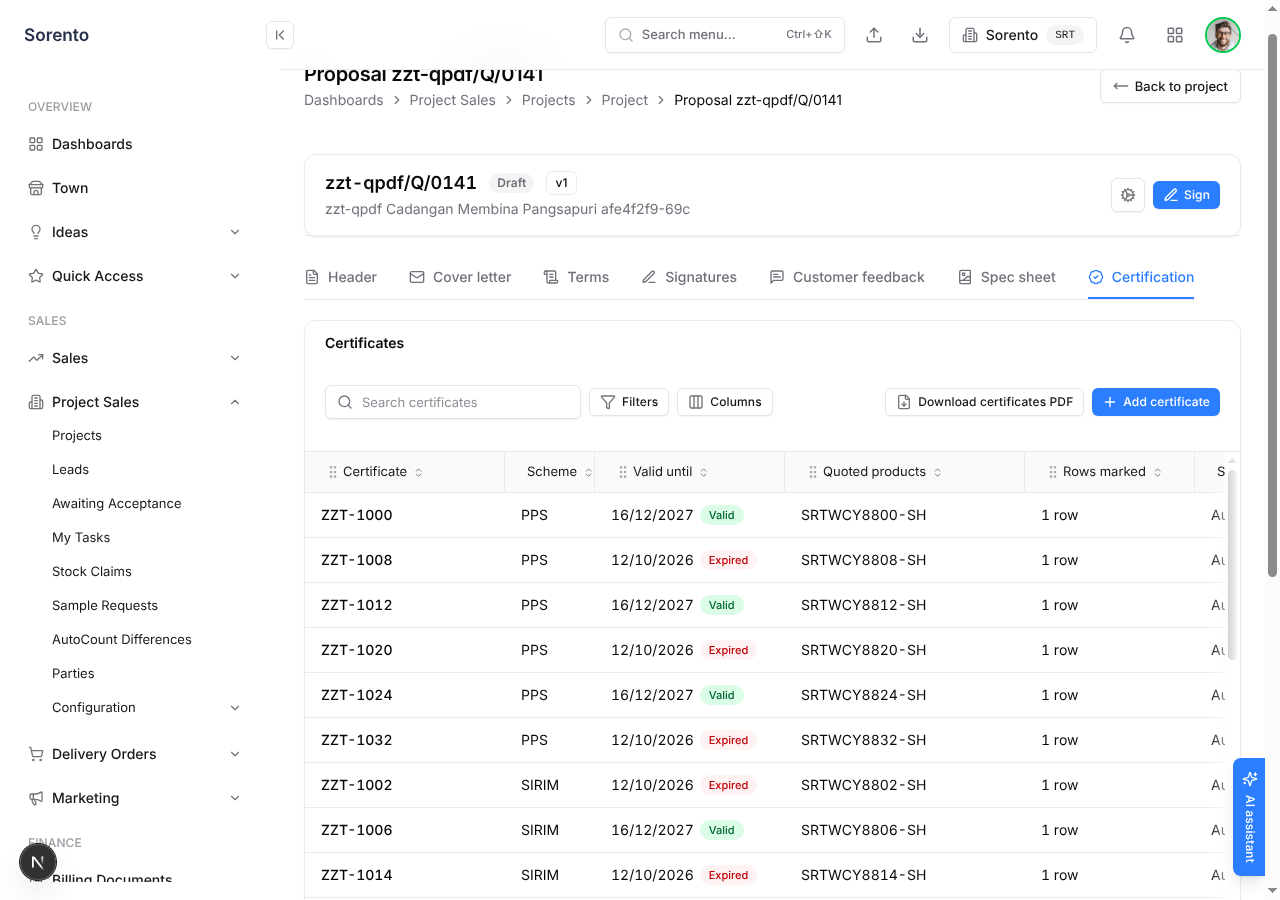
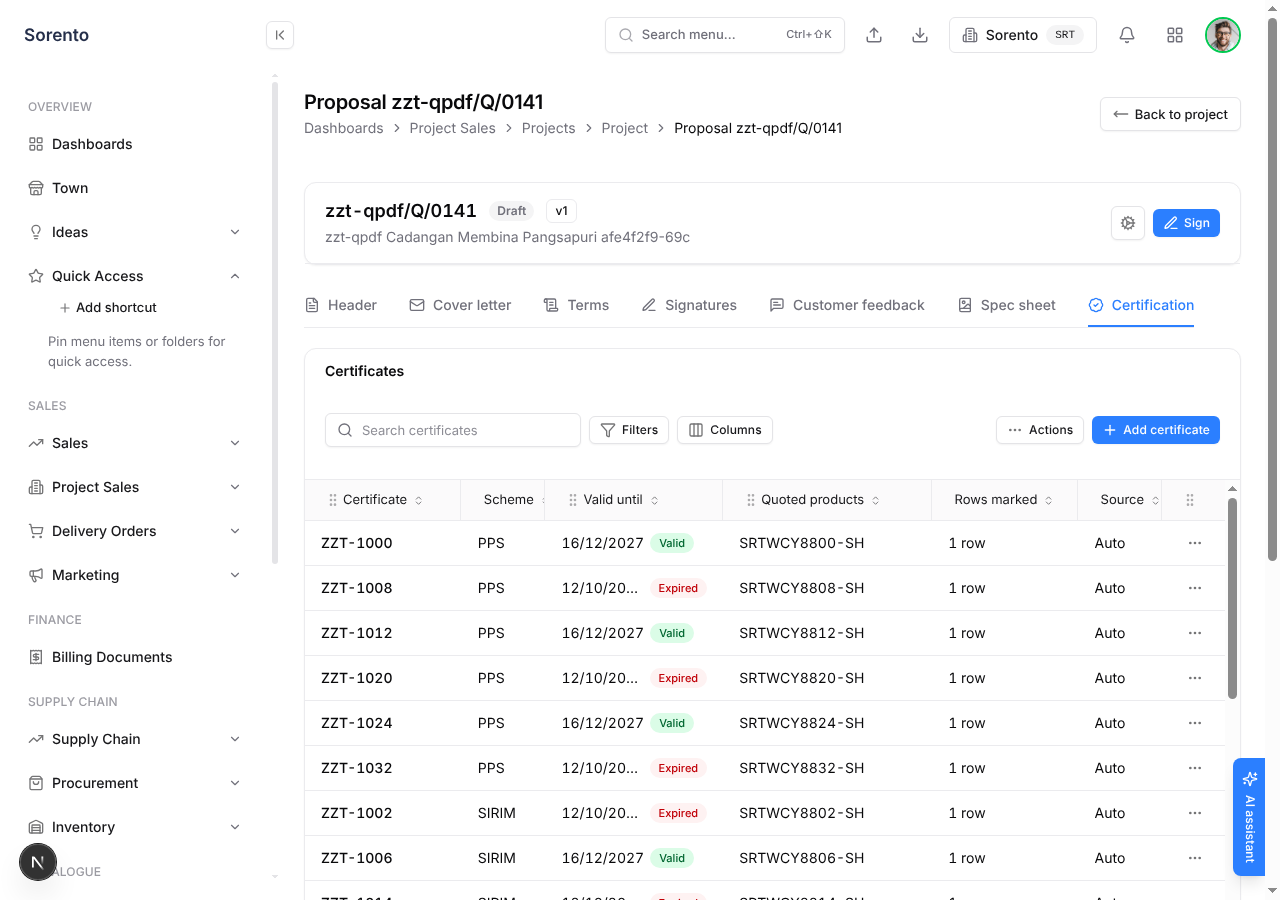
CERT-TAB-UX: Download certificates PDF in the toolbar Actions menu so Add fits at 375px; browser evidence [skip ci]
Claude-Session: https://claude.ai/code/session_0123Dx7NpBeimV6NWyxwuXwA

diff --git a/sorento_crm_frontend/app/(protected)/project-sales/[projectId]/quotation-documents/[documentId]/components/__tests__/QuotationCertificatesList.test.tsx b/sorento_crm_frontend/app/(protected)/project-sales/[projectId]/quotation-documents/[documentId]/components/__tests__/QuotationCertificatesList.test.tsx
@@ -7,7 +7,7 @@
  *              returning `{ data, isLoading, error, refetch }`; `data` = `{ can_edit, can_edit_defaults, items: Row[] }`.
  *   List       `PanelDataGrid`; scheme, number, a validity badge, and marked text that carries the count and the
  *              state in words ("2 rows, found").
- *   Toolbar    "Download certificates PDF"; "Add certificate" only when `can_edit`.
+ *   Toolbar    "Download certificates PDF" (Actions menu); "Add certificate" only when `can_add`.
  *   Empty      heading "No certificates" and the hint "None of the quoted products has a certificate on file."
  *   Remove     the row menu deferred action `quotation_certificate.remove` (entity type `quotation_certificate`,
  *              entity id = the document id, payload `{ certificate_id }`): no confirm dialog.
@@ -98,6 +98,14 @@ function ok(items: unknown[], canEdit = true) {
     error: null,
     refetch: vi.fn(),
   });
+}
+
+/** Download certificates PDF lives in the toolbar's Actions menu (CERT-TAB-UX, 375px). */
+async function findDownloadItem() {
+  const trigger = await screen.findByRole('button', { name: /^actions$/i });
+  trigger.focus();
+  fireEvent.keyDown(trigger, { key: 'ArrowDown', code: 'ArrowDown' });
+  return screen.findByRole('menuitem', { name: /download certificates pdf/i });
 }
 
 function renderList() {
@@ -197,8 +205,8 @@ describe('QuotationCertificatesList', () => {
   it('shows the download and add buttons for an editor', async () => {
     ok([row()]);
     renderList();
-    expect(await screen.findByRole('button', { name: /download certificates pdf/i })).toBeInTheDocument();
-    expect(screen.getByRole('button', { name: /add certificate/i })).toBeInTheDocument();
+    expect(await screen.findByRole('button', { name: /add certificate/i })).toBeInTheDocument();
+    expect(await findDownloadItem()).toBeInTheDocument();
   });
 
   it('hides Add certificate when the viewer cannot edit', async () => {
@@ -218,7 +226,7 @@ describe('QuotationCertificatesList', () => {
     renderList();
     await screen.findByText('ZZT-0119');
     expect(screen.queryByRole('button', { name: /add certificate/i })).toBeNull();
-    expect(screen.getByRole('button', { name: /download certificates pdf/i })).toBeInTheDocument();
+    expect(await findDownloadItem()).toBeInTheDocument();
   });
 
   it('shows neither the empty state nor rows while loading', () => {
@@ -245,7 +253,7 @@ describe('QuotationCertificatesList', () => {
     ok([row()]);
     renderList();
     await screen.findByText('ZZT-0119');
-    const trigger = screen.getAllByRole('button', { name: /actions/i })[0];
+    const trigger = screen.getByRole('button', { name: 'PPS ZZT-0119 actions' });
     trigger.focus();
     fireEvent.keyDown(trigger, { key: 'ArrowDown', code: 'ArrowDown' });
     fireEvent.click(await screen.findByRole('menuitem', { name: /remove/i }));

diff --git a/sorento_crm_frontend/app/(protected)/project-sales/[projectId]/quotation-documents/[documentId]/components/QuotationCertificatesList.tsx b/sorento_crm_frontend/app/(protected)/project-sales/[projectId]/quotation-documents/[documentId]/components/QuotationCertificatesList.tsx
@@ -475,6 +475,9 @@ export function QuotationCertificatesList({
                 </div>
               ),
             }}
+            // In the Actions menu, not a second text button: two text buttons beside the
+            // search clipped Add certificate at 375px, and the owner asked for fewer buttons.
+            secondaryActionsAsMenu
             secondaryActions={[
               {
                 key: 'download-certificates-pdf',
